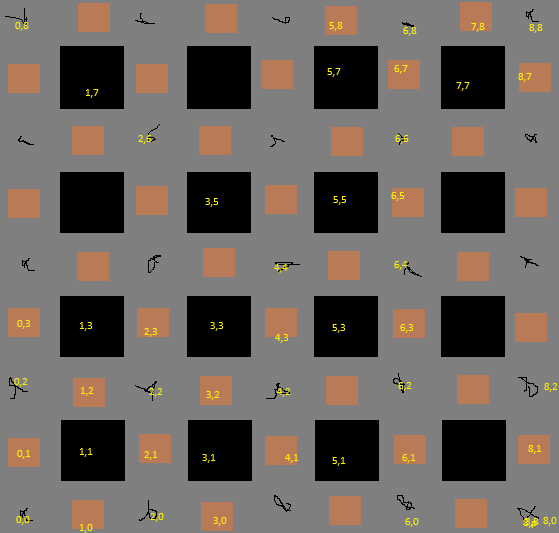
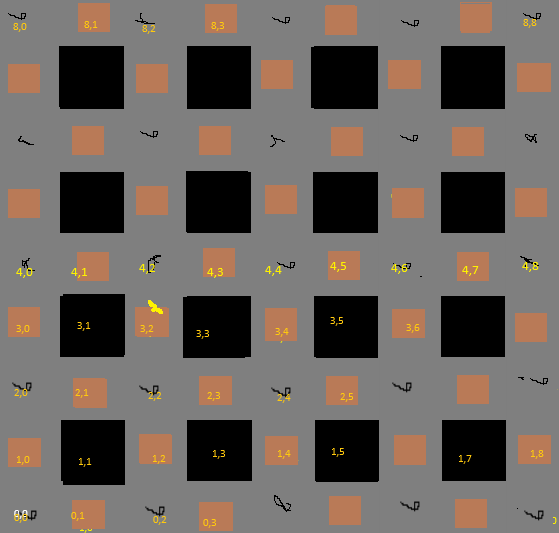
Omgjort till go(): comming from down/left/up/right

diff --git a/src/main/java/com/example/service/DoritoSolverService.java b/src/main/java/com/example/service/DoritoSolverService.java
@@ -14,98 +14,141 @@ import java.util.List;
 public class DoritoSolverService {
 
     public List<DoritoGame> solveDoritoGame(DoritoGame doritoGame) {
-
         System.out.println("recursion1:" + ZonedDateTime.now());
         List<DoritoGame> solveDoritoGames = new ArrayList();
 
-        doritoGame.getBoxes()[0][0].setColor(4); //green
-        solver(0, 0, doritoGame, solveDoritoGames);
+        go(1, 0, 0, doritoGame, solveDoritoGames);
 
         System.out.println("recursion2:" + ZonedDateTime.now());
         System.out.println("solveDoritoGames.size:" + solveDoritoGames.size());
         return solveDoritoGames;
     }
 
-    private void solver(int prevRow, int prevCol, DoritoGame doritoGame, List<DoritoGame> solveDoritoGames) {
+    /*
+    1 underifrån
+	2 vänsterifrån
+	3 överifrån
+	4 högerifrån
+     */
+    private void go(int commingFrom, int newRow, int newCol, DoritoGame doritoGame, List<DoritoGame> solveDoritoGames) {
 
-            if ((prevRow == doritoGame.getNrOfRows() - 1) && (prevCol == doritoGame.getNrOfColumns() - 1)) {
-                //Solution found
-                if (isAcceptedDoritoGame(doritoGame)) {
-                    solveDoritoGames.add(doritoGame);
+        //black or visited
+        if (1 == doritoGame.getBoxes()[newRow][newCol].getColor() || 4 == doritoGame.getBoxes()[newRow][newCol].getColor()) {
+            return;
+        }
+
+        if (commingFrom == 1) { //came from down
+
+            DoritoGame newDoritoGame = copyOldGame(doritoGame);
+            newDoritoGame.getBoxes()[newRow][newCol].setColor(4);
+
+            if ((newRow == newDoritoGame.getNrOfRows() - 1) && (newCol == newDoritoGame.getNrOfColumns() - 1)) {
+                //possible Solution found
+                if (isAcceptedDoritoGame(newDoritoGame)) {
+                    solveDoritoGames.add(newDoritoGame);
                 }
                 return;
             }
 
-            goingUp(prevRow, prevCol, doritoGame, solveDoritoGames);
-            goingRight(prevRow, prevCol, doritoGame, solveDoritoGames);
-            goingDown(prevRow, prevCol, doritoGame, solveDoritoGames);
-            goingLeft(prevRow, prevCol, doritoGame, solveDoritoGames);
+            if (blackSumIsTooHigh(newDoritoGame, newRow, newCol)) {
+                return;
+            }
 
-    }
+    /*
+    1 underifrån
+	2 vänsterifrån
+	3 överifrån
+	4 högerifrån
+     */
+            if (newRow+1 < newDoritoGame.getNrOfRows()) go(1,newRow+1, newCol, newDoritoGame, solveDoritoGames); //gå uppåt
+            if (newCol+1 < newDoritoGame.getNrOfColumns()) go(2,newRow, newCol+1, newDoritoGame, solveDoritoGames); //gå höger
+            //go(3,newRow-1, newCol, newDoritoGame, solveDoritoGames); //gå neråt
+            if (newCol-1 > -1) go(4,newRow, newCol-1, newDoritoGame, solveDoritoGames); //gå vänster
 
-    private void goingUp(int prevRow, int prevCol, DoritoGame doritoGame, List<DoritoGame> solveDoritoGames) {
+        } else if (commingFrom == 3) { //came from up
 
-        if (prevRow == doritoGame.getNrOfRows() - 1) { //going to hit roof
-            return;
+            DoritoGame newDoritoGame = copyOldGame(doritoGame);
+
+            newDoritoGame.getBoxes()[newRow][newCol].setColor(4);
+            if ((newRow == newDoritoGame.getNrOfRows() - 1) && (newCol == newDoritoGame.getNrOfColumns() - 1)) {
+                //Solution found
+                if (isAcceptedDoritoGame(newDoritoGame)) {
+                    solveDoritoGames.add(newDoritoGame);
+                }
+                return;
+            }
+
+            if (blackSumIsTooHigh(newDoritoGame, newRow, newCol)) {
+                return;
+            }
+    /*
+    1 underifrån
+	2 vänsterifrån
+	3 överifrån
+	4 högerifrån
+     */
+            //go(1,newRow+1, newCol, newDoritoGame, solveDoritoGames); //gå uppåt
+            if (newCol+1 < newDoritoGame.getNrOfColumns()) go(2,newRow, newCol+1, newDoritoGame, solveDoritoGames); //gå höger
+            if (newRow-1 > -1) go(3,newRow-1, newCol, newDoritoGame, solveDoritoGames); //gå neråt
+            if (newCol-1 > -1) go(4,newRow, newCol-1, newDoritoGame, solveDoritoGames); //gå vänster
+
+        } else if (commingFrom == 2) { //came from left
+
+            DoritoGame newDoritoGame = copyOldGame(doritoGame);
+
+            newDoritoGame.getBoxes()[newRow][newCol].setColor(4);
+            if ((newRow == newDoritoGame.getNrOfRows() - 1) && (newCol == newDoritoGame.getNrOfColumns() - 1)) {
+                //Solution found
+                if (isAcceptedDoritoGame(newDoritoGame)) {
+                    solveDoritoGames.add(newDoritoGame);
+                }
+                return;
+            }
+
+            if (blackSumIsTooHigh(newDoritoGame, newRow, newCol)) {
+                return;
+            }
+    /*
+    1 underifrån
+	2 vänsterifrån
+	3 överifrån
+	4 högerifrån
+     */
+            if (newRow+1 < newDoritoGame.getNrOfRows()) go(1,newRow+1, newCol, newDoritoGame, solveDoritoGames); //gå uppåt
+
+            if (newCol+1 < newDoritoGame.getNrOfColumns()) go(2,newRow, newCol+1, newDoritoGame, solveDoritoGames); //gå höger
+            if (newRow-1 > -1) go(3,newRow-1, newCol, newDoritoGame, solveDoritoGames); //gå neråt
+           // go(4,newRow, newCol-1, newDoritoGame, solveDoritoGames); //gå vänster
+
+        } else if (commingFrom == 4) { //came from right
+
+            DoritoGame newDoritoGame = copyOldGame(doritoGame);
+
+            newDoritoGame.getBoxes()[newRow][newCol].setColor(4);
+            if ((newRow == newDoritoGame.getNrOfRows() - 1) && (newCol == newDoritoGame.getNrOfColumns() - 1)) {
+                //Solution found
+                if (isAcceptedDoritoGame(newDoritoGame)) {
+                    solveDoritoGames.add(newDoritoGame);
+                }
+                return;
+            }
+
+            if (blackSumIsTooHigh(newDoritoGame, newRow, newCol)) {
+                return;
+            }
+    /*
+    1 underifrån
+	2 vänsterifrån
+	3 överifrån
+	4 högerifrån
+     */
+            if (newRow+1 < newDoritoGame.getNrOfRows()) go(1,newRow+1, newCol, newDoritoGame, solveDoritoGames); //gå uppåt
+            //go(2,newRow, newCol+1, newDoritoGame, solveDoritoGames); //gå höger
+            if (newRow-1 > -1) go(3,newRow-1, newCol, newDoritoGame, solveDoritoGames); //gå neråt
+            if (newCol-1 > -1) go(4,newRow, newCol-1, newDoritoGame, solveDoritoGames); //gå vänster
+
         }
 
-        if (1 == doritoGame.getBoxes()[prevRow+1][prevCol].getColor() || 4 == doritoGame.getBoxes()[prevRow+1][prevCol].getColor()) {
-            return;
-        }
-
-        DoritoGame newDoritoGame = copyOldGame(doritoGame);
-        newDoritoGame.getBoxes()[prevRow+1][prevCol].setColor(4); //4 green = visited
-
-        solver(prevRow+1, prevCol, newDoritoGame, solveDoritoGames);
-    }
-
-    private void goingDown(int prevRow, int prevCol, DoritoGame doritoGame, List<DoritoGame> solveDoritoGames) {
-
-        if (prevRow == 0) { //going to hit floor
-            return;
-        }
-
-        if (1 == doritoGame.getBoxes()[prevRow-1][prevCol].getColor() || 4 == doritoGame.getBoxes()[prevRow-1][prevCol].getColor()) {
-            return;
-        }
-
-        DoritoGame newDoritoGame = copyOldGame(doritoGame);
-        newDoritoGame.getBoxes()[prevRow-1][prevCol].setColor(4); //4 green = visited
-
-        solver(prevRow-1, prevCol, newDoritoGame, solveDoritoGames);
-    }
-
-    private void goingRight(int prevRow, int prevCol, DoritoGame doritoGame, List<DoritoGame> solveDoritoGames) {
-
-        if (prevCol == doritoGame.getNrOfColumns() - 1) { //going to hit right side
-            return;
-        }
-
-        if (1 == doritoGame.getBoxes()[prevRow][prevCol + 1].getColor() || 4 == doritoGame.getBoxes()[prevRow][prevCol + 1].getColor()) {
-            return;
-        }
-
-        DoritoGame newDoritoGame = copyOldGame(doritoGame);
-        newDoritoGame.getBoxes()[prevRow][prevCol + 1].setColor(4); //4 green = visited
-
-        solver(prevRow, prevCol + 1, newDoritoGame, solveDoritoGames);
-    }
-
-    private void goingLeft(int prevRow, int prevCol, DoritoGame doritoGame, List<DoritoGame> solveDoritoGames) {
-
-        if (prevCol == 0) { //going to hit left side
-            return;
-        }
-
-        if (1 == doritoGame.getBoxes()[prevRow][prevCol - 1].getColor() || 4 == doritoGame.getBoxes()[prevRow][prevCol - 1].getColor()) {
-            return;
-        }
-
-        DoritoGame newDoritoGame = copyOldGame(doritoGame);
-
-        newDoritoGame.getBoxes()[prevRow][prevCol - 1].setColor(4); //4 green = visited
-
-        solver(prevRow, prevCol - 1, newDoritoGame, solveDoritoGames);
     }
 
     private DoritoGame copyOldGame(DoritoGame oldDoritoGame) {
@@ -125,8 +168,80 @@ public class DoritoSolverService {
             }
             newDoritoGame.setBoxes(newBoxes);
         }
-        oldDoritoGame = null;
         return newDoritoGame;
+    }
+
+    private boolean blackSumIsTooHigh(DoritoGame newDoritoGame, int newRow, int newCol) {
+
+        if (newRow % 2 != 0 && newCol % 2 == 0) {
+            //LEFT RIGHT BLACK BOX SITUATION
+
+            //Left black box
+            if (newCol > 1) {
+                int nrOfTri = newDoritoGame.getBoxes()[newRow][newCol-1].getNrOfTriangles();
+                if (nrOfTri > 0) {
+                    int visit1 = 4 == newDoritoGame.getBoxes()[newRow][newCol - 2].getColor() ? 1 : 0; //leftside
+                    int visit2 = 4 == newDoritoGame.getBoxes()[newRow][newCol].getColor() ? 1 : 0; //rightside curr
+                    int visit3 = 4 == newDoritoGame.getBoxes()[newRow + 1][newCol - 1].getColor() ? 1 : 0; //up
+                    int visit4 = 4 == newDoritoGame.getBoxes()[newRow - 1][newCol - 1].getColor() ? 1 : 0; //down
+                    int sum = visit1 + visit2 + visit3 + visit4;
+                    if (sum > nrOfTri) {
+                        return true;
+                    }
+                }
+            }
+
+            //Right black box
+            if (newCol < newDoritoGame.getNrOfColumns() - 1) {
+                int nrOfTri = newDoritoGame.getBoxes()[newRow][newCol+1].getNrOfTriangles();
+                if (nrOfTri > 0) {
+                    int visit1 = 4 == newDoritoGame.getBoxes()[newRow][newCol].getColor() ? 1 : 0; //leftside curr
+                    int visit2 = 4 == newDoritoGame.getBoxes()[newRow][newCol + 2].getColor() ? 1 : 0; //rightside
+                    int visit3 = 4 == newDoritoGame.getBoxes()[newRow + 1][newCol + 1].getColor() ? 1 : 0; //up
+                    int visit4 = 4 == newDoritoGame.getBoxes()[newRow - 1][newCol + 1].getColor() ? 1 : 0; //down
+                    int sum = visit1 + visit2 + visit3 + visit4;
+                    if (sum > nrOfTri) {
+                        return true;
+                    }
+                }
+            }
+        }
+
+        if (newRow % 2 == 0 && newCol % 2 != 0) {
+            //UP DOWN SITUATION
+
+            //Up black box
+            if (newRow < newDoritoGame.getNrOfRows() - 1) {
+                int nrOfTri = newDoritoGame.getBoxes()[newRow+1][newCol].getNrOfTriangles();
+                if (nrOfTri > 0) {
+                    int visit1 = 4 == newDoritoGame.getBoxes()[newRow+1][newCol-1].getColor() ? 1 : 0; //leftside
+                    int visit2 = 4 == newDoritoGame.getBoxes()[newRow+1][newCol+1].getColor() ? 1 : 0; //rightside
+                    int visit3 = 4 == newDoritoGame.getBoxes()[newRow + 2][newCol].getColor() ? 1 : 0; //up
+                    int visit4 = 4 == newDoritoGame.getBoxes()[newRow][newCol].getColor() ? 1 : 0; //down curr
+                    int sum = visit1 + visit2 + visit3 + visit4;
+                    if (sum > nrOfTri) {
+                        return true;
+                    }
+                }
+            }
+
+            //Down black box
+            if (newRow > 1) {
+                int nrOfTri = newDoritoGame.getBoxes()[newRow-1][newCol].getNrOfTriangles();
+                if (nrOfTri > 0) {
+                    int visit1 = 4 == newDoritoGame.getBoxes()[newRow-1][newCol-1].getColor() ? 1 : 0; //leftside
+                    int visit2 = 4 == newDoritoGame.getBoxes()[newRow-1][newCol+1].getColor() ? 1 : 0; //rightside
+                    int visit3 = 4 == newDoritoGame.getBoxes()[newRow][newCol].getColor() ? 1 : 0; //up curr
+                    int visit4 = 4 == newDoritoGame.getBoxes()[newRow-2][newCol].getColor() ? 1 : 0; //down
+                    int sum = visit1 + visit2 + visit3 + visit4;
+                    if (sum > nrOfTri) {
+                        return true;
+                    }
+                }
+            }
+        }
+
+        return false;
     }
 
     private boolean isAcceptedDoritoGame(DoritoGame doritoGame) {
@@ -141,12 +256,15 @@ public class DoritoSolverService {
 
                         int sum = visit1 + visit2 + visit3 + visit4;
                         if (sum != doritoGame.getBoxes()[i][k].getNrOfTriangles()) {
+                            //System.out.println("Not solved :(");
                             return false;
                         }
                     }
                 }
             }
         }
+        //System.out.println("Solved!!!!!!!!!!!!!!!!!!!!!!!!!!!!");
         return true;
     }
+
 }

diff --git a/src/main/java/com/example/service/DoritoService.java b/src/main/java/com/example/service/DoritoService.java
@@ -22,7 +22,7 @@ public class DoritoService {
         boolean isValid = isValid(nrOfBlackBoxes);
 
         if (!isValid) {
-            return "Must be a sqaure nr >0 and <=36. Try again and best of luck.";
+            return "Must be a sqaure nr >0 and <=100. Try again and best of luck.";
         }
 
         String respStr = StringUtils.EMPTY;
@@ -34,21 +34,24 @@ public class DoritoService {
 
         respStr += "<br/><table><tr><td>Solutions:" + solvedList.size() + "</td></tr></table><br/>";
 
-        if (ObjectUtils.isNotEmpty(solvedList)) {
-            for (int k = 0; k < solvedList.size(); k++) {
-                DoritoGame solvedDoritogame = solvedList.get(k);
-                respStr += getResponseString(solvedDoritogame);
-            }
-        }
+   //     if (true) {
+   //         return respStr;
+   //     }
 
-        respStr += "solutions:" + solvedList.size();
+        //if (ObjectUtils.isNotEmpty(solvedList)) {
+        if (solvedList.size() < 5000) {
+              for (int k = 0; k < solvedList.size(); k++) {
+               DoritoGame solvedDoritogame = solvedList.get(k);
+               respStr += getResponseString(solvedDoritogame);
+           }
+        }
 
         return respStr;
     }
 
     private boolean isValid(int nrOfBlackBoxes) {
 
-        if (nrOfBlackBoxes <= 0  || nrOfBlackBoxes > 36) {
+        if (nrOfBlackBoxes <= 0  || nrOfBlackBoxes > 100) {
             return false;
         }
 

diff --git a/src/main/java/com/example/domain/DoritoGame.java b/src/main/java/com/example/domain/DoritoGame.java
@@ -18,6 +18,8 @@ public class DoritoGame {
         this.setNrOfColumns((int)((Math.sqrt(nrOfBlackBoxes) * 2) + 1));
         this.setNrOfRows((int)((Math.sqrt(nrOfBlackBoxes) * 2) + 1));
 
+        System.out.println("this.getNrOfColumns:" + this.getNrOfColumns());
+
         Box[][] boxes = new Box[this.getNrOfRows()][this.getNrOfColumns()];
 
         for (int i = 0; i < this.getNrOfRows(); i++) {
@@ -83,11 +85,11 @@ public class DoritoGame {
 
             int randNumber = (int) (Math.random() * 100); //0-99
 
-            if (randNumber < 20) {
+            if (randNumber < 23) {
                 return 1;
-            } else if (randNumber < 28) {
+            } else if (randNumber < 29) {
                 return 2;
-            } else if (randNumber < 38) {
+            } else if (randNumber < 34) {
                 return 3;
             }
 
